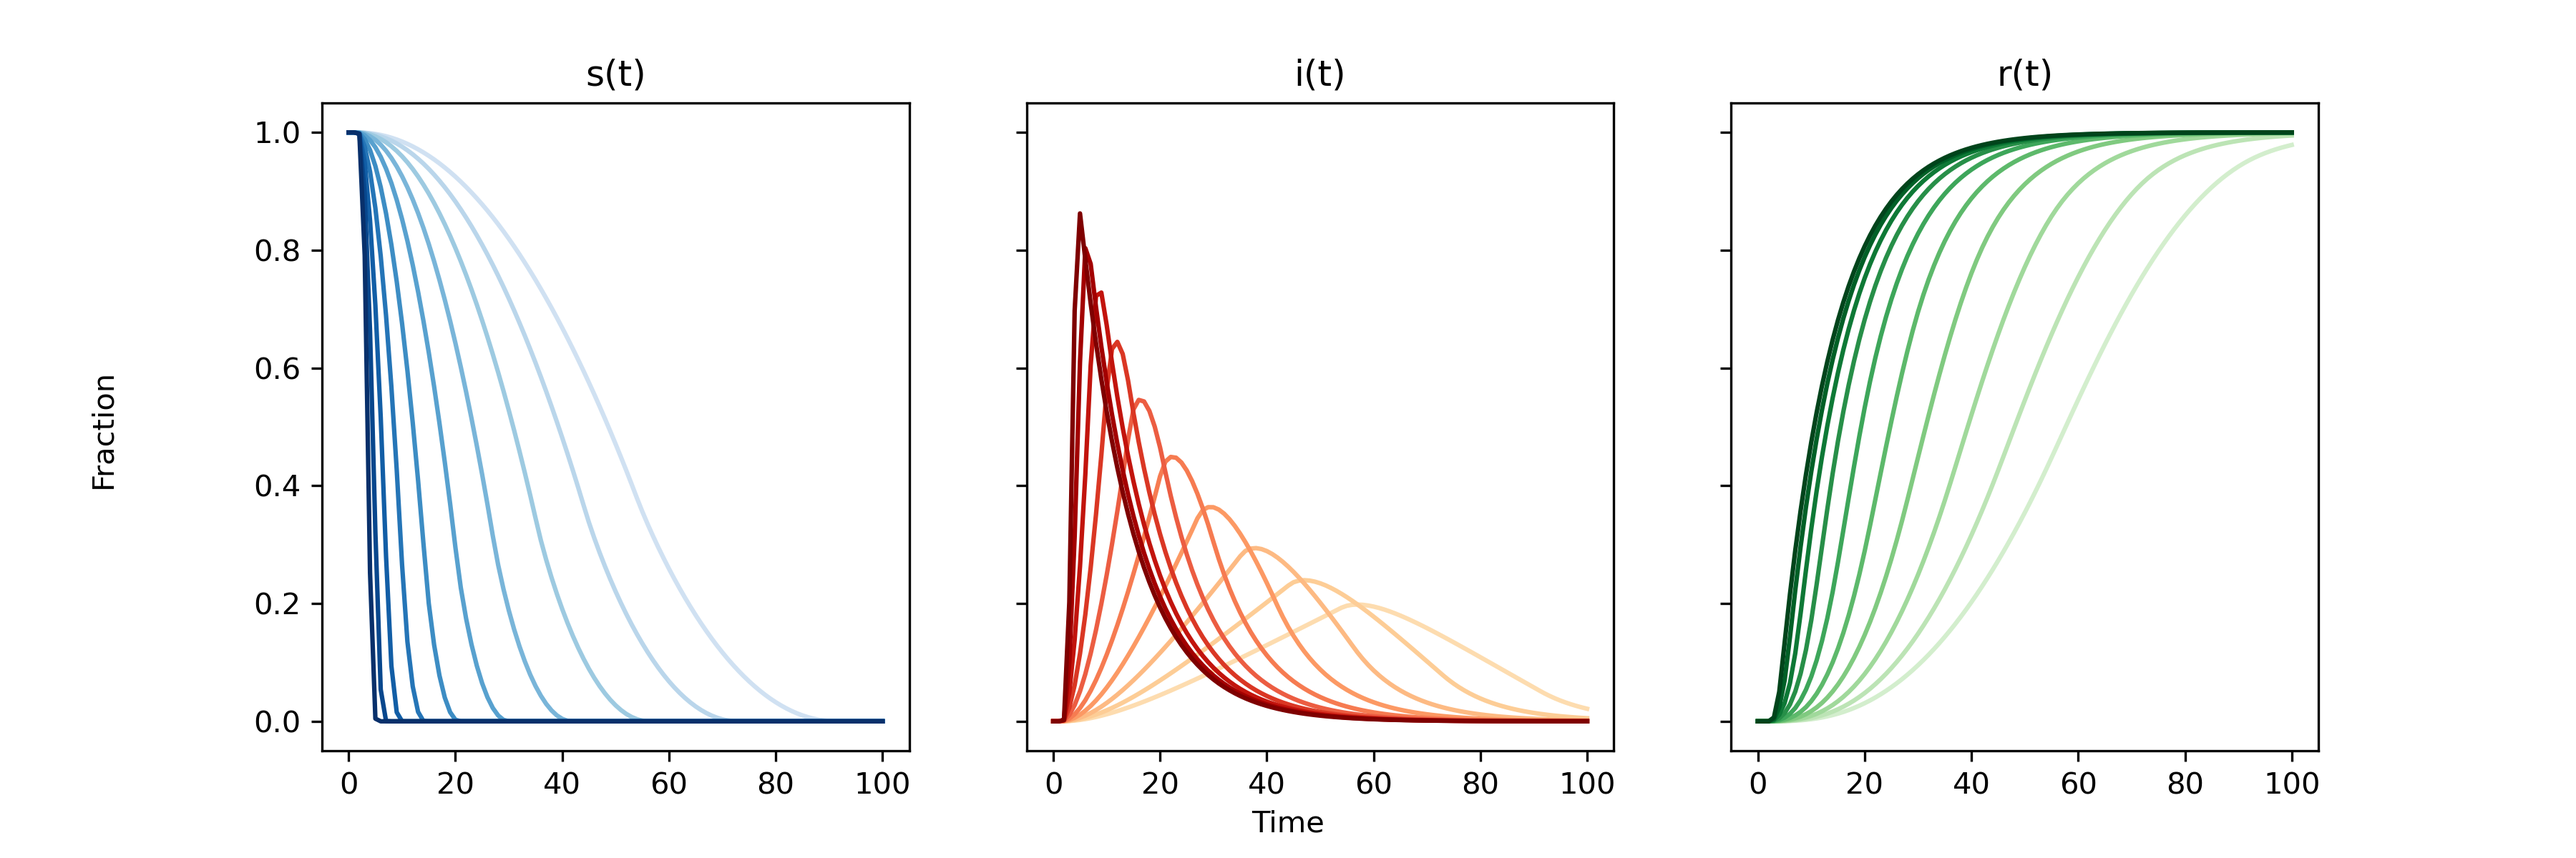
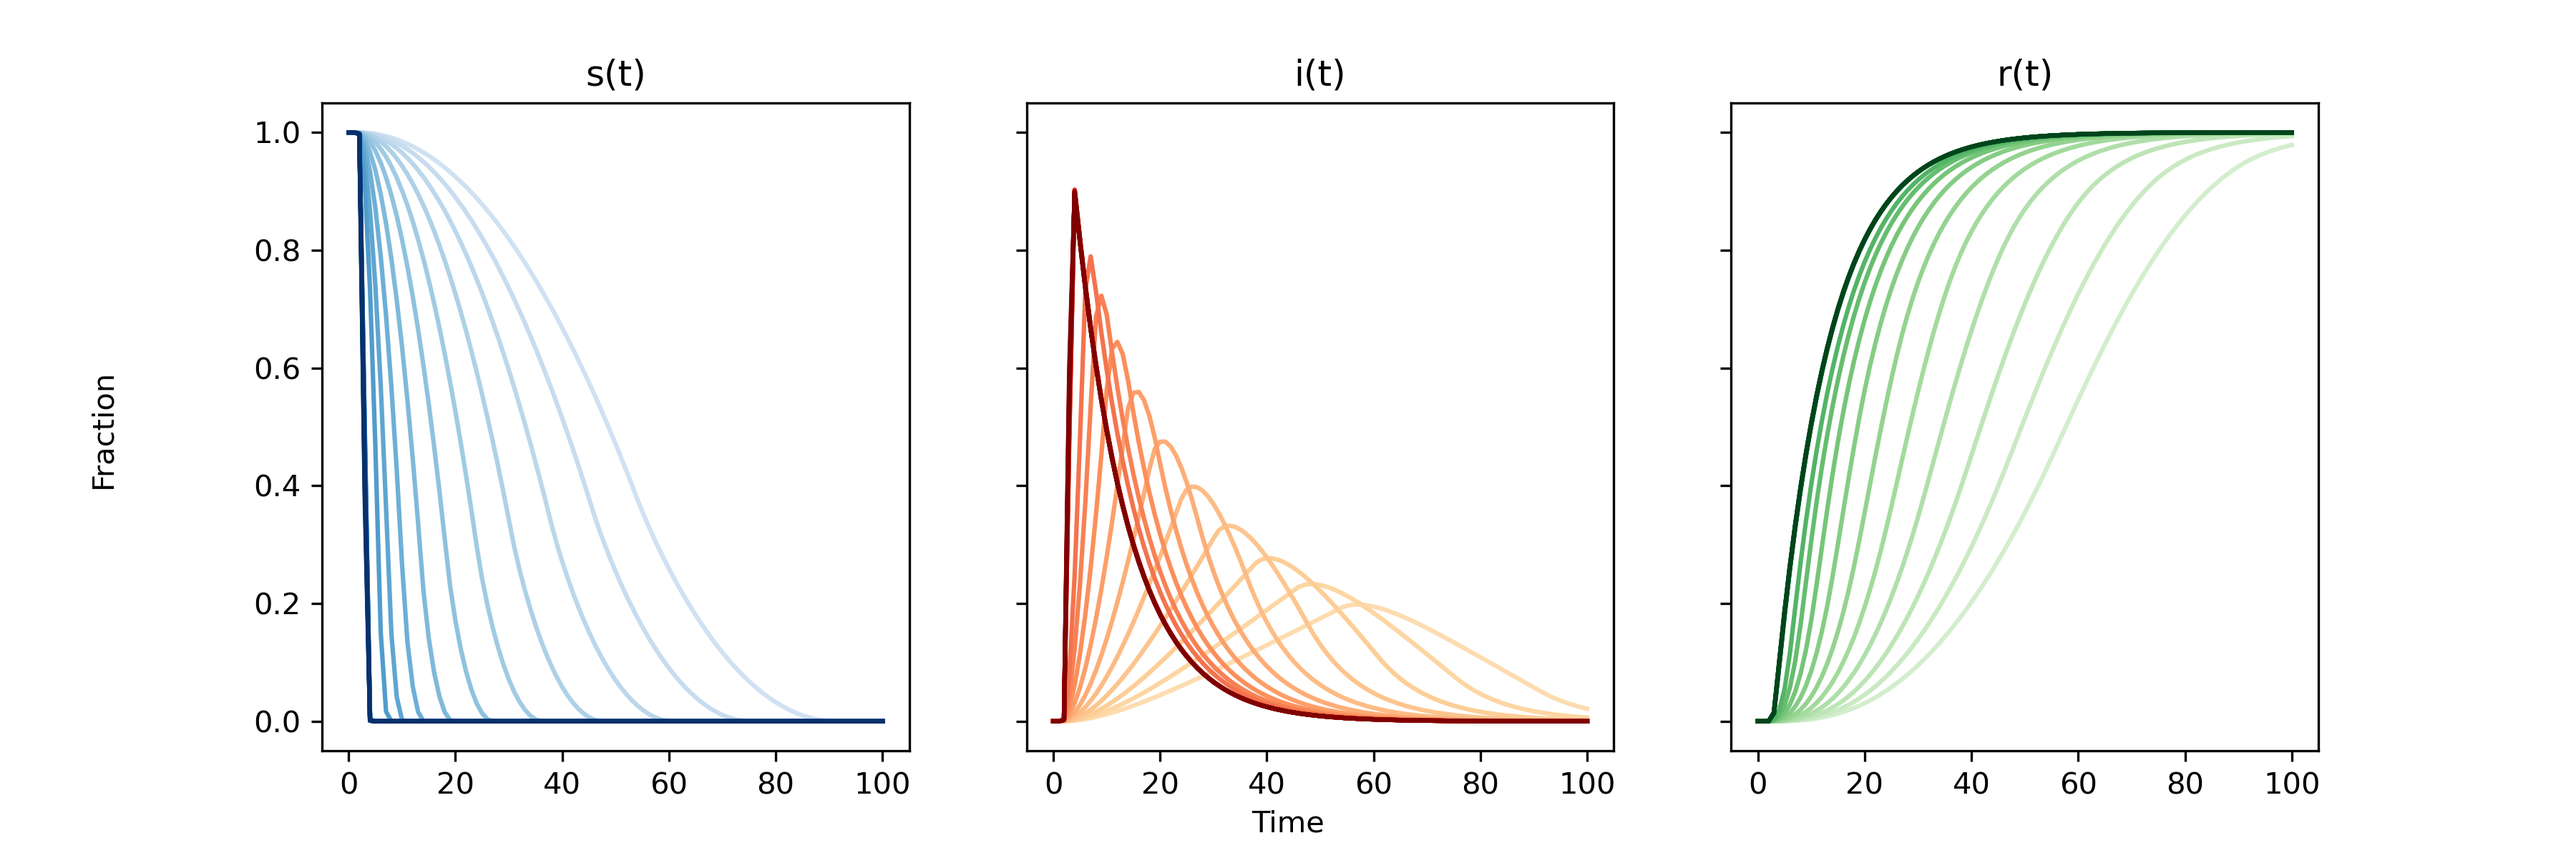
finished pde

Changed region(s): [[0.6844, 0.1542, 0.8711, 0.8633], [0.1244, 0.1542, 0.28, 0.8325], [0.4044, 0.2467, 0.5911, 0.8633]]

diff --git a/scripts/pde_simulation.py b/scripts/pde_simulation.py
@@ -83,5 +83,26 @@ plot_time(s, i, r, "random place")
 # plt.savefig("../docs/figs/pde_2d_time_random.png", dpi=500)
 
 
+# 1 + 1 + n
+res = []
+p = 0.005 / M
+pos = (M // 2, M // 2)
+res.append(pde_model(i0, pos, M, T, b, k, p))
 
+pos = (0, 0)
+res.append(pde_model(i0, pos, M, T, b, k, p))
+
+for _ in range(10):
+    pos = (np.random.randint(0, M), np.random.randint(0, M))
+    res.append(pde_model(i0, pos, M, T, b, k, p))
+    
+res = np.asarray(res).mean(axis=(2,3))
+
+plt.plot(res[0,1,:], color='r', label="center")
+plt.plot(res[1,1,:], color='g', label="corner")
+plt.plot(res[2,1,:], color='b', label="random")
+for i in range(3, 12):
+    plt.plot(res[i,1,:], color='b')
+plt.legend()
+# plt.savefig("../docs/figs/pde_loc.png", dpi=300)
 
